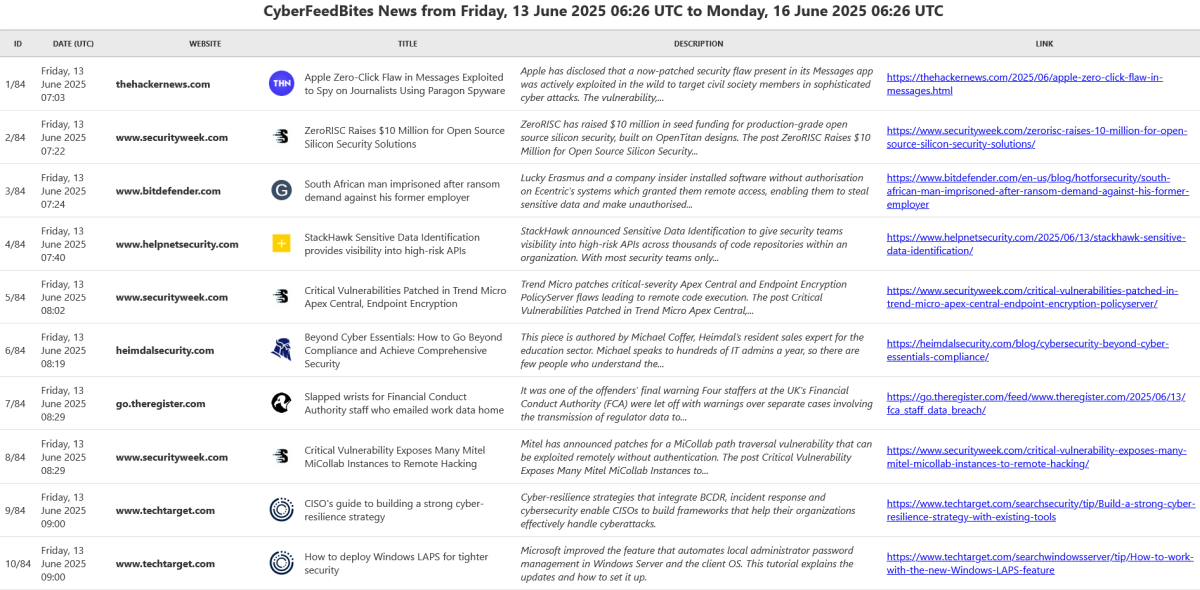
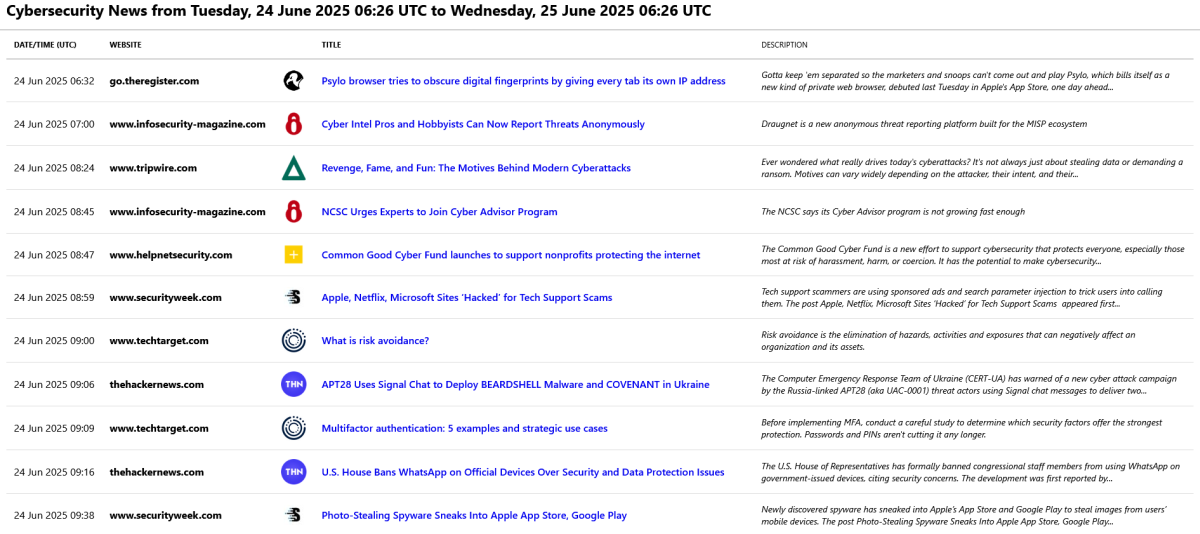
Fix README code block indentation; update CSS; revise HTML template

diff --git a/data/templates/style.css b/data/templates/style.css
@@ -1,14 +1,14 @@
 body {
     font-family: "Segoe UI", Roboto, "Helvetica Neue", Arial, sans-serif;
-    background-color: #fafafa;
-    color: #333;
+    background-colour: #fafafa;
+    colour: #333;
     margin: 0;
     padding: 0;
 }
 
 h1 {
-    background-color: #fff;
-    text-align: center;
+    background-colour: #fff;
+    text-align: centre;
     padding: 16px;
     margin: 0;
     font-size: 24px;
@@ -16,25 +16,65 @@ h1 {
     border-bottom: 2px solid #ccc;
 }
 
+.table-wrapper {
+    overflow-x: auto;
+    margin: 0 16px;
+}
+
 table {
     width: 100%;
     border-collapse: collapse;
-    background-color: #fff;
-    box-shadow: 0 2px 8px rgba(0,0,0,0.05);
+    background-colour: #fff;
+    box-shadow: 0 2px 8px rgba(0, 0, 0, 0.05);
 }
 
 th {
-    background-color: #eaeaea;
-    padding: 12px 8px;
+    background-colour: #eaeaea;
+    padding: 14px 12px;
     text-transform: uppercase;
     font-size: 12px;
     border-bottom: 2px solid #ccc;
+    text-align: left;
 }
 
 td {
-    padding: 10px 8px;
+    padding: 14px 12px;
     border-bottom: 1px solid #ddd;
     vertical-align: middle;
+}
+
+tr:nth-child(even) {
+    background-colour: #f9f9f9;
+}
+
+/* Column width settings */
+th:nth-child(1), td:nth-child(1) {
+    width: 130px;
+    white-space: nowrap;
+}
+
+th:nth-child(2), td:nth-child(2) {
+    width: 200px;
+    white-space: nowrap;
+}
+
+th:nth-child(3), td:nth-child(3) {
+    width: 50px;
+    text-align: centre;
+}
+
+th:nth-child(4), td:nth-child(4) {
+    width: 40%;
+    min-width: 300px;
+    word-break: break-word;
+    font-weight: 500;
+}
+
+th:nth-child(5), td:nth-child(5) {
+    width: 30%;
+    font-size: 14px;
+    colour: #555;
+    word-break: break-word;
 }
 
 .channel-image {
@@ -43,6 +83,16 @@ td {
     max-height: 40px;
     max-width: 40px;
     border-radius: 4px;
+}
+
+a {
+    colour: #1a0dab;
+    text-decoration: none;
+    font-weight: 600;
+}
+
+a:hover {
+    text-decoration: underline;
 }
 
 .italic-cell {

diff --git a/data/templates/template.html b/data/templates/template.html
@@ -9,16 +9,16 @@
 </head>
 <body>
     <h1>{top_text} from {earliest_date} {timezone_print} to {current_date} {timezone_print}</h1>
-    <table>
-        <tr>
-            <th>ID</th>
-            <th>Date/Time (UTC)</th>
-            <th colspan="2">Website</th>
-            <th>Title</th>
-            <th>Description</th>
-            <th>Link</th>
-        </tr>
-        {rows}
-    </table>
+    <div class="table-wrapper">
+        <table>
+            <tr>
+                <th>Date/Time (UTC)</th>
+                <th colspan="2">Website</th>
+                <th>Title</th>
+                <th>Description</th>
+            </tr>
+            {rows}
+        </table>
+    </div>
 </body>
 </html>

diff --git a/src/output_writer.py b/src/output_writer.py
@@ -21,7 +21,7 @@ import csv
 
 from config import (
     TEMPLATE_HTML_FILE, TITLE_KEY, LINK_KEY, DESCRIPTION_KEY, PUBLISHED_DATE_KEY,
-    CHANNEL_IMAGE_KEY, FEED_TITLE_KEY, TEXT_DATE_FORMAT_PRINT, TIMEZONE_PRINT
+    CHANNEL_IMAGE_KEY, FEED_TITLE_KEY, TEXT_DATE_FORMAT_SHORT, TIMEZONE_PRINT
 )
 from utils import sanitize_for_html, get_website_name
 
@@ -29,31 +29,28 @@ def write_all_rss_to_html(posts_to_print, outfilename, current_date, earliest_da
     """Writes all RSS feed entries to an HTML file."""
     
     sorted_posts = sorted(posts_to_print, key=lambda post: post[PUBLISHED_DATE_KEY])
-    total_posts = len(sorted_posts)
     
     table_rows = []
     for id_post, post in enumerate(sorted_posts, start=1):
-        website_name = get_website_name(post[LINK_KEY])
+        website_name = sanitize_for_html(get_website_name(post[LINK_KEY]))
         
         # Resolve image URL safely
         image_url = post.get(CHANNEL_IMAGE_KEY) or (icon_map.get(post[FEED_TITLE_KEY]) if icon_map else "")
-        image_html = f"<img src='{sanitize_for_html(image_url)}' alt='' class='channel-image'>" if image_url else ""
+        image_html = f"<img src='{sanitize_for_html(image_url)}' alt='{website_name}' class='channel-image'>" if image_url else ""
 
-        published_date_string_print = post[PUBLISHED_DATE_KEY].strftime(TEXT_DATE_FORMAT_PRINT)
+        published_date_string_print = post[PUBLISHED_DATE_KEY].strftime(TEXT_DATE_FORMAT_SHORT)
         title_row = sanitize_for_html(post[TITLE_KEY]).strip('"')
         description_row = sanitize_for_html(post[DESCRIPTION_KEY]).strip('"')
         safe_post_link = sanitize_for_html(post[LINK_KEY])
 
         row_td = (
-            f"<td>{id_post}/{total_posts}</td>"
             f"<td>{published_date_string_print}</td>"
             f"<td><b>{website_name}</b></td>"
             f"<td>{image_html}</td>"
-            f"<td>{title_row}</td>"
+            f"<td><a href='{safe_post_link}' target='_blank'>{title_row}</a></td>"
             f"<td class='italic-cell'>{description_row}</td>"
-            f"<td><a href='{safe_post_link}' target='_blank'>{safe_post_link}</a></td>"
         )
-        table_rows.append(f"<tr>{row_td}</tr>")
+        table_rows.append(f"<tr>{row_td}</tr>\n")
 
     try:
         with open(TEMPLATE_HTML_FILE) as file:
@@ -97,7 +94,7 @@ def write_all_rss_to_csv(posts_to_print, outfilename, current_date, earliest_dat
     for post in sorted_posts:
         website_name = get_website_name(post[LINK_KEY])
 
-        published_date_string_print = post[PUBLISHED_DATE_KEY].strftime(TEXT_DATE_FORMAT_PRINT)
+        published_date_string_print = post[PUBLISHED_DATE_KEY].strftime(TEXT_DATE_FORMAT_SHORT)
         title_row = sanitize_for_html(post[TITLE_KEY]).strip()  # Strip leading/trailing spaces
         description_row = sanitize_for_html(post[DESCRIPTION_KEY]).strip()  # Strip leading/trailing spaces
         safe_post_link = sanitize_for_html(post[LINK_KEY]).strip()  # Strip leading/trailing spaces

diff --git a/src/config.py b/src/config.py
@@ -67,3 +67,4 @@ TIMEZONE_PRINT = "UTC"
 # Format of the date for filename or used as text
 TEXT_DATE_FORMAT_FILE = "%Y-%m-%d_%H-%M-%S"
 TEXT_DATE_FORMAT_PRINT = "%A, %d %B %Y %H:%M"
+TEXT_DATE_FORMAT_SHORT = "%d %b %Y %H:%M"

diff --git a/README.md b/README.md
@@ -24,10 +24,11 @@ CyberFeedBites is ready to use once dependencies are installed. To run it as is,
 
 1. Clone this repository:
 
-```bash
-git clone https://github.com/dsgandurra/cyberfeedbites.git
-cd cyberfeedbites
-```
+    ```bash
+    git clone https://github.com/dsgandurra/cyberfeedbites.git
+    cd cyberfeedbites
+    ```
+
 2. Before running CyberFeedBites, it's recommended to use a virtual environment to keep your project's dependencies isolated. To do so, create and activate a virtual environment:
 
    On **Linux/macOS**:
@@ -41,11 +42,12 @@ cd cyberfeedbites
    python -m venv myenv
    .\myenv\Scripts\activate
    ```
+   
 3. Install the required dependencies:
 
-   ```bash
-   pip install -r requirements.txt
-   ```
+    ```bash
+    pip install -r requirements.txt
+    ```
 
 The required packages are:
 
@@ -56,15 +58,16 @@ The required packages are:
 
 1. Navigate to the root folder of the project:
 
-```bash
-cd path/to/cyberfeedbites
-```
+    ```bash
+    cd path/to/cyberfeedbites
+    ```
 
 2. Run CyberFeedBites with optional parameters:
 
-```bash
-python src/main.py [--days <days_back>] [--opml <opml_file_path>]
-```
+    ```bash
+    python src/main.py [--days <days_back>] [--opml <opml_file_path>]
+    ```
+
 - `--days`: Specify the number of days to fetch news from (e.g., `--days 2`). Defaults to the `DAYS_BACK` value set in `config.py`.
 - `--opml`: Provide a custom path to an OPML file (e.g., `--opml data/rss_sources/custom.opml`). Defaults to the OPML file specified by `OPML_FILENAME` in `config.py`.
 
